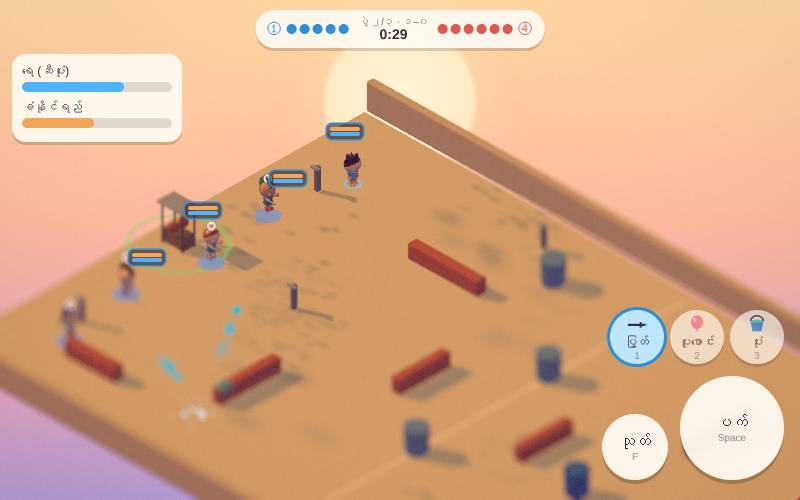
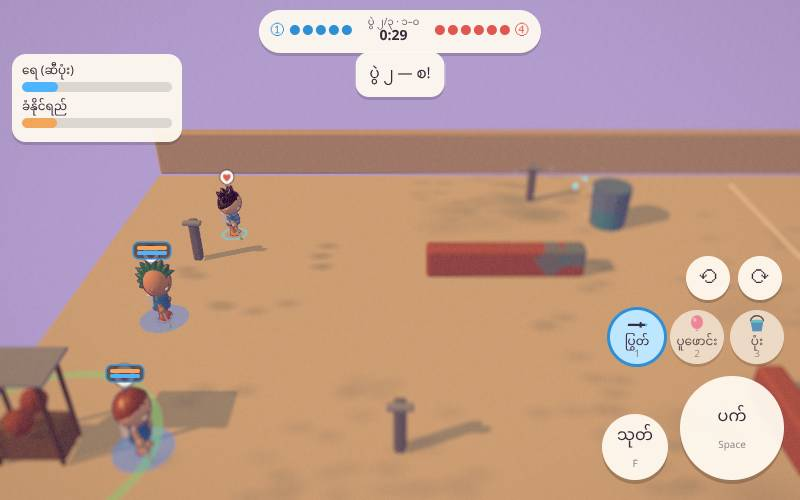
T3: AI goals snapped out of solid cells (Cho Cho's cover spot inside a tap); orbit ?auto check: 0 snags, 0 errors
Claude-Session: https://claude.ai/code/session_017xuZq8H4cNKSMdBo5y4KvM

diff --git a/yangon/ai.js b/yangon/ai.js
@@ -49,7 +49,8 @@ export function createGrid(B, free, cell = .5) {
   }
   // a real corner: an open cell with something solid right beside it, between it and `toward` (± x)
   function corners(toward) { const out = []; for (let j = 1; j < nz - 1; j++) for (let i = 1; i < nx - 1; i++) if (ok(i, j) && !ok(i + toward, j) && ok(i, j - 1) && ok(i, j + 1)) out.push([wx(i), wz(j)]); return out; }
-  return { find, lineFree, corners, ok: (x, z) => ok(cx(x), cz(z)), nx, nz, cell };
+  const snap = (x, z) => { const c = nearestOpen(cx(x), cz(z)); return !c || ok(cx(x), cz(z)) ? [x, z] : [wx(c[0]), wz(c[1])]; }; // a goal inside a drum / tap / wall → the nearest open cell
+  return { find, lineFree, corners, snap, ok: (x, z) => ok(cx(x), cz(z)), nx, nz, cell };
 }
 
 // ---------- the heads ----------
@@ -64,7 +65,7 @@ export function createAI(G) {
   // the legs: go to (x, z) — a new A* path only when the goal has moved a metre or the old one is done
   function goTo(k, x, z, run = true) {
     const a = k.ai, p = pos(k);
-    a.run = run; a.want = true;
+    a.run = run; a.want = true; [x, z] = grid.snap(x, z); // never aim for a point inside something solid (Cho Cho behind a mate by the tap)
     if (a.goal && Math.hypot(a.goal[0] - x, a.goal[1] - z) < 1 && a.pathT > 0 && !a.path.finished()) return;
     if (dist(p, { x, z }) < .3) { stop(k); return; }
     a.goal = [x, z]; a.pathT = 1.2;

diff --git a/yangon/war.js b/yangon/war.js
@@ -9,7 +9,7 @@ import { createWorld } from '../world.js?v=14';
 import { createSound } from '../sound.js?v=3';
 import { createFx } from '../fx.js?v=2';
 import { createRules, RULE_TEXT } from '../rules.js?v=1';
-import { createAI } from './ai.js?v=1';
+import { createAI } from './ai.js?v=2';
 
 const P = new URLSearchParams(location.search);
 const MODE = P.get('mode'), AUTO = P.has('auto'), ALLEY = P.get('map') === 'alley'; // the open lot by default; the alleys if asked

diff --git a/docs/plans/T3.md b/docs/plans/T3.md
@@ -111,3 +111,12 @@
 2. **Soak overlay cap** — `TUNE.soakCap .5` (the red sting tint and the water film stop at half) · `TUNE.blurMax 1.2 px` (was up to 2.4) · saturation / hue shift capped the same · the wipe (F) clears it at once (drown 0, sting ≤ .15) · both in `?tune` · `soak-cap.jpg` (40 face hits in a row: sting .41, film .5, blur 1.2 px — still playable) · `soak-wiped.jpg`
    - also fixed: the orbit commit had folded `drown`'s decay into a comment (the film would never clear) — restored
 - refill icon over a kid: the tag already shows a bobbing drop while they fill (`ICON.fill`) and a 「…」 drop while they wait for a tap
+
+### `?auto` on orbit (after the fixes)
+| round | result | OUT ① / ④ | fouls | shots | hits | A* paths | no path | stuck → re-path | snags |
+|---|---|---|---|---|---|---|---|---|---|
+| 1 | ① wins | 0 / 2 | 2 | 148 | 365 | 498 | 0 | 7 | 0 |
+| 2 | draw | 2 / 2 | 4 | 299 | 768 | 972 | 0 | 10 | 0 |
+| 3 | ① wins the match | 1 / 1 | 8 | 445 | 1128 | 1441 | 0 | 19 | 0 |
+
+console errors 0. The run before this one had one 5 s snag (Cho Cho hiding behind a mate whose cover spot was inside the tap); `ai.js` now snaps every goal out of solid cells (`grid.snap`).
